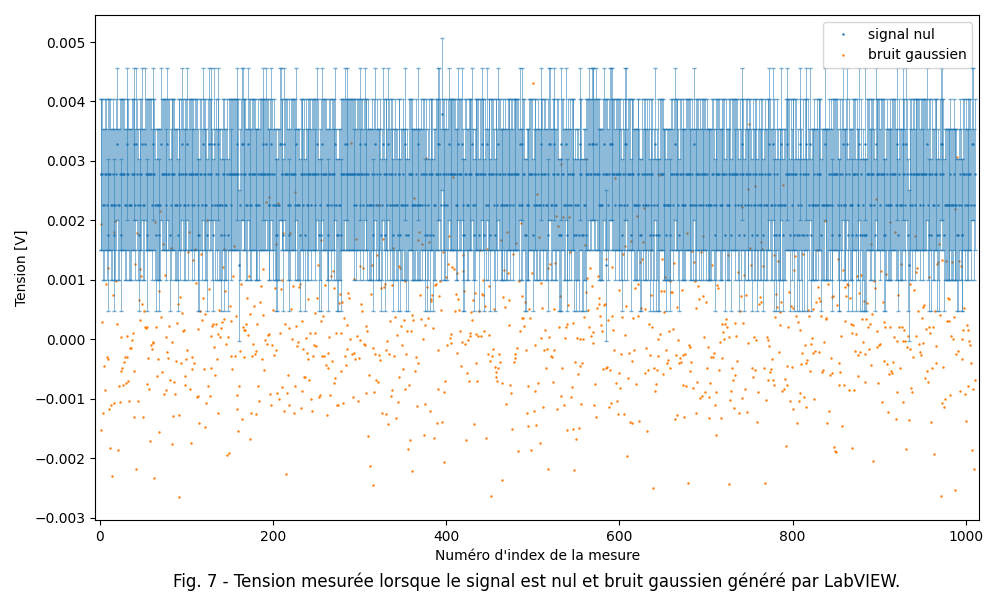
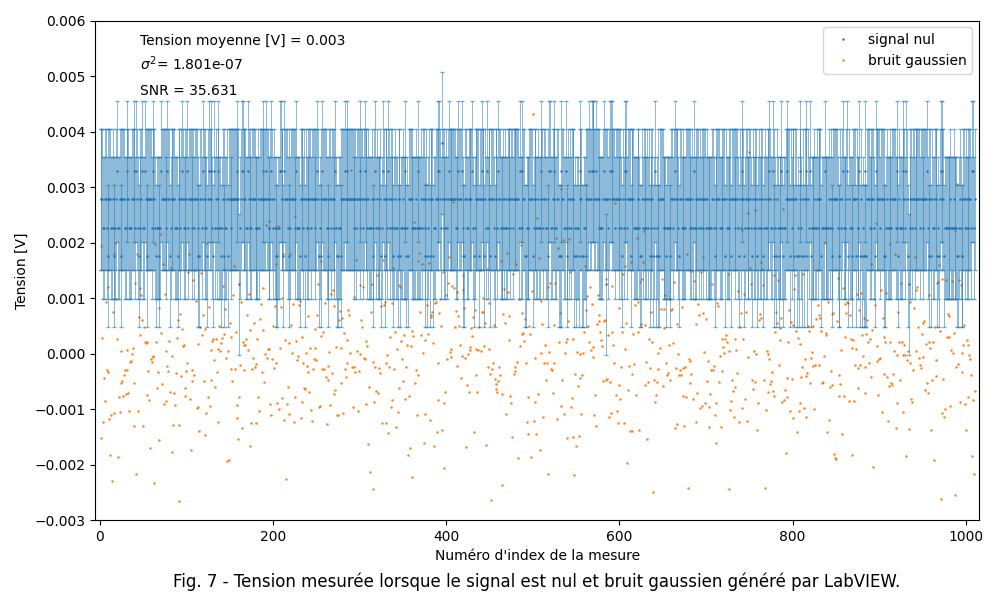
Correction fig 3, 6, 7

diff --git a/Labo1/Programmation/Comparaison_bruit.py b/Labo1/Programmation/Comparaison_bruit.py
@@ -50,6 +50,17 @@ def read(file_name):
     return df.to_numpy()[:, :col]
 
 
+def moyenne(file_name, indice):
+    return float(np.mean(read(file_name)[:, indice]))
+
+def variance(file_name, indice):
+    return float(np.var(read(file_name)[:, indice], ddof=0))
+
+def snr(file_name, indice):
+    m = moyenne(file_name, indice); v = variance(file_name, indice)
+    return (m*m)/v if v != 0 else np.inf
+
+
 def incertitude(array, indice):
     col = array[:, indice]
     return 0.5 * (np.max(col) - np.min(col))
@@ -71,6 +82,7 @@ def graphiques_scatter(array):
                  elinewidth=0.6, capsize=1.5, alpha=0.6)
 
     plt.xlim(-5, 1015)
+    plt.ylim(-0.003, 0.006)
     plt.legend()
     plt.xlabel("Numéro d'index de la mesure")
     plt.ylabel("Tension [V]")
@@ -79,6 +91,11 @@ def graphiques_scatter(array):
         f"Fig. 7 - Tension mesurée lorsque le signal est nul et bruit gaussien généré par LabVIEW.",
         y=-0.15
     )
+
+    ax = plt.gca()
+    ax.text(0.05, 0.95, f"Tension moyenne [V] = {moyenne(filepath, 0):.3f}", transform=ax.transAxes)
+    ax.text(0.05, 0.90, r"$\sigma^2$" + f"= {variance(filepath, 0):.3e}", transform=ax.transAxes)
+    ax.text(0.05, 0.85, f"SNR = {snr(filepath, 0):.3f}", transform=ax.transAxes)
 
     plt.tight_layout()
     plt.savefig(plot_dir + "/signal_nul_vs_bruit.png")
@@ -95,7 +112,7 @@ def histogramme(array):
     plt.xlabel("Tension [V]")
     plt.ylabel("Nombre d'échantillons")
     plt.title("Fig. 6 - La distribution des valeurs de tensions mesurées pour le signal nul et la distribution du bruit" \
-              " gaussien",
+              " gaussien.",
               y=-0.15)
 
     plt.tight_layout()
@@ -104,6 +121,6 @@ def histogramme(array):
     plt.show()
 
 
-histogramme(read(filepath))
+# histogramme(read(filepath))
 
-# graphiques_scatter(read(filepath))
+graphiques_scatter(read(filepath))

diff --git a/Labo1/Programmation/Graphique_tension_constante.py b/Labo1/Programmation/Graphique_tension_constante.py
@@ -79,6 +79,7 @@ def graphiques_scatter(array):
                  elinewidth=0.6, capsize=1.5, alpha=0.6, color='orange')
 
     plt.xlim(-5, 1015)
+    plt.ylim(-0.0027, 0.006)
     plt.legend()
     plt.xlabel("Numéro d'index de la mesure")
     plt.ylabel("Tension [V]")
